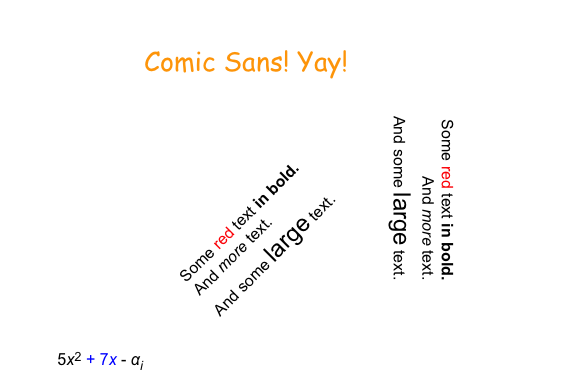
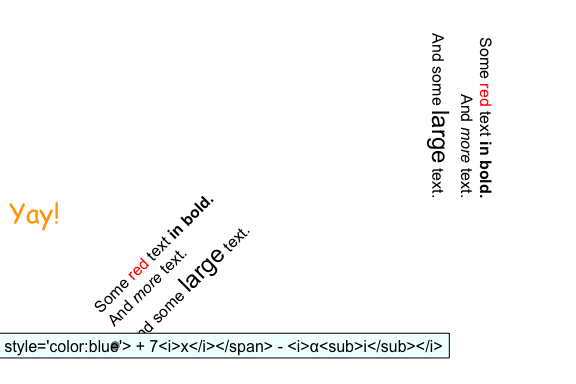
Enabled rich-text rendering in a box.

diff --git a/README.md b/README.md
@@ -109,9 +109,20 @@ text3 <- "5<i>x</i><sup>2</sup><span style='color:blue'> + 7<i>x</i></span> - <i
 
 grid.newpage()
 grid.draw(rich_text_grob(text1, x = 0.25, y = 0.9))
-grid.draw(rich_text_grob(text2, x = 0.3, y = 0.3, hjust = 0, angle = 45))
-grid.draw(rich_text_grob(text2, x = 0.8, y = 0.7, hjust = 1, angle = -90))
-grid.draw(rich_text_grob(text3, x = 0.1, y = 0.1))
+# enclose in a box grob for rotation
+grid.draw(
+  box_grob(
+    rich_text_grob(text2, hjust = 0),
+    x = 0.3, y = 0.3, angle = 45
+  )
+)
+grid.draw(
+  box_grob(
+    rich_text_grob(text2, hjust = 1),
+    x = 0.8, y = 0.7, angle = -90
+  )
+)
+grid.draw(box_grob(textGrob(text3), x = 0.2, y = 0.1, padding = mar(5, 5, 5, 5), debug = TRUE))
 ```
 
 ![](man/figures/README-unnamed-chunk-6-1.png)<!-- -->
